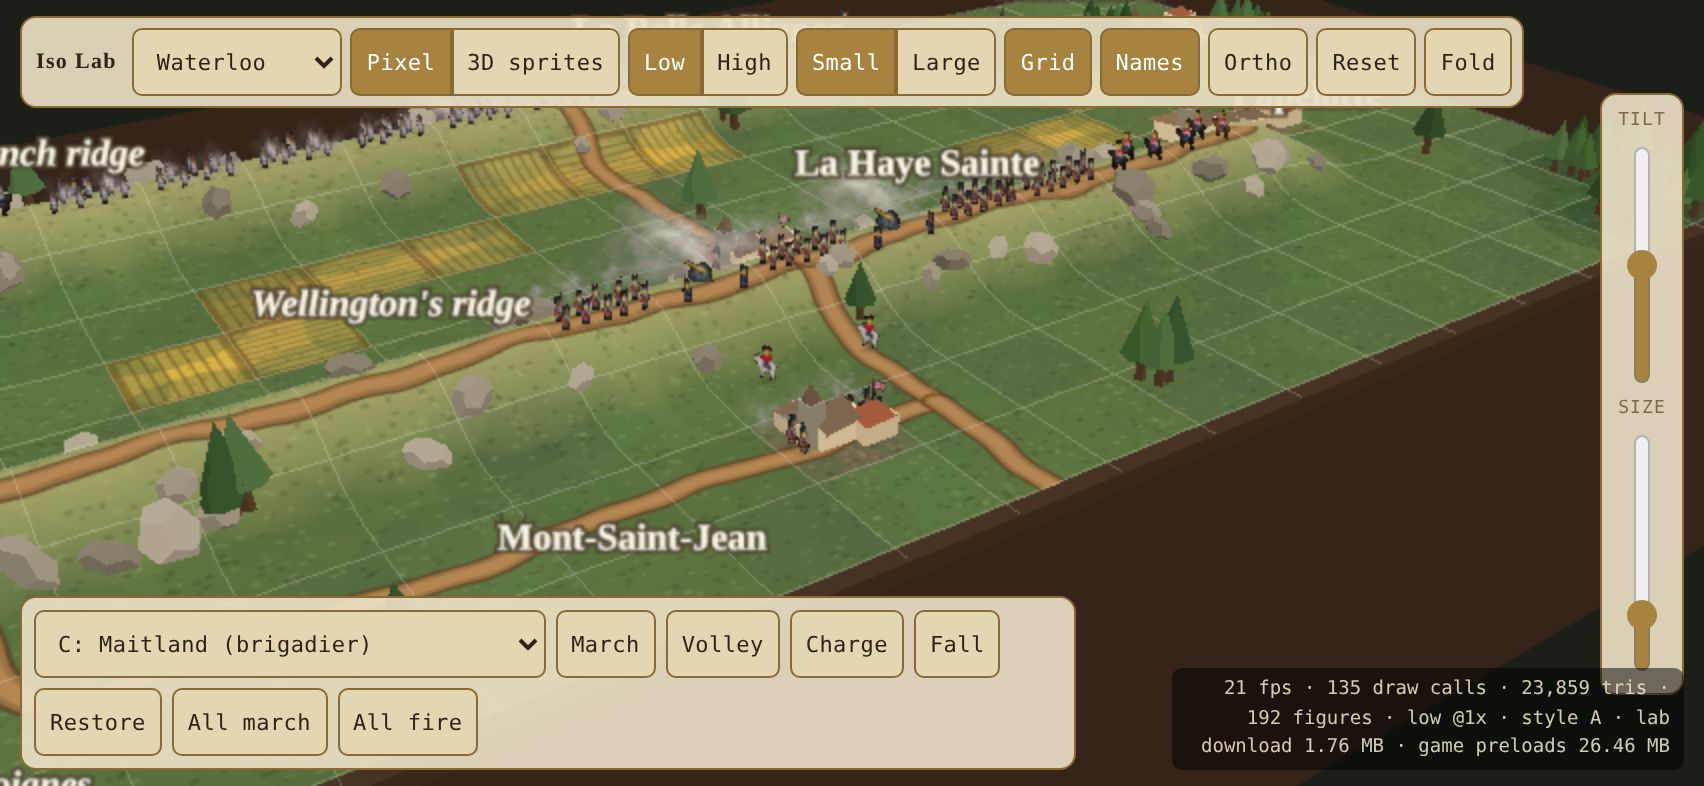
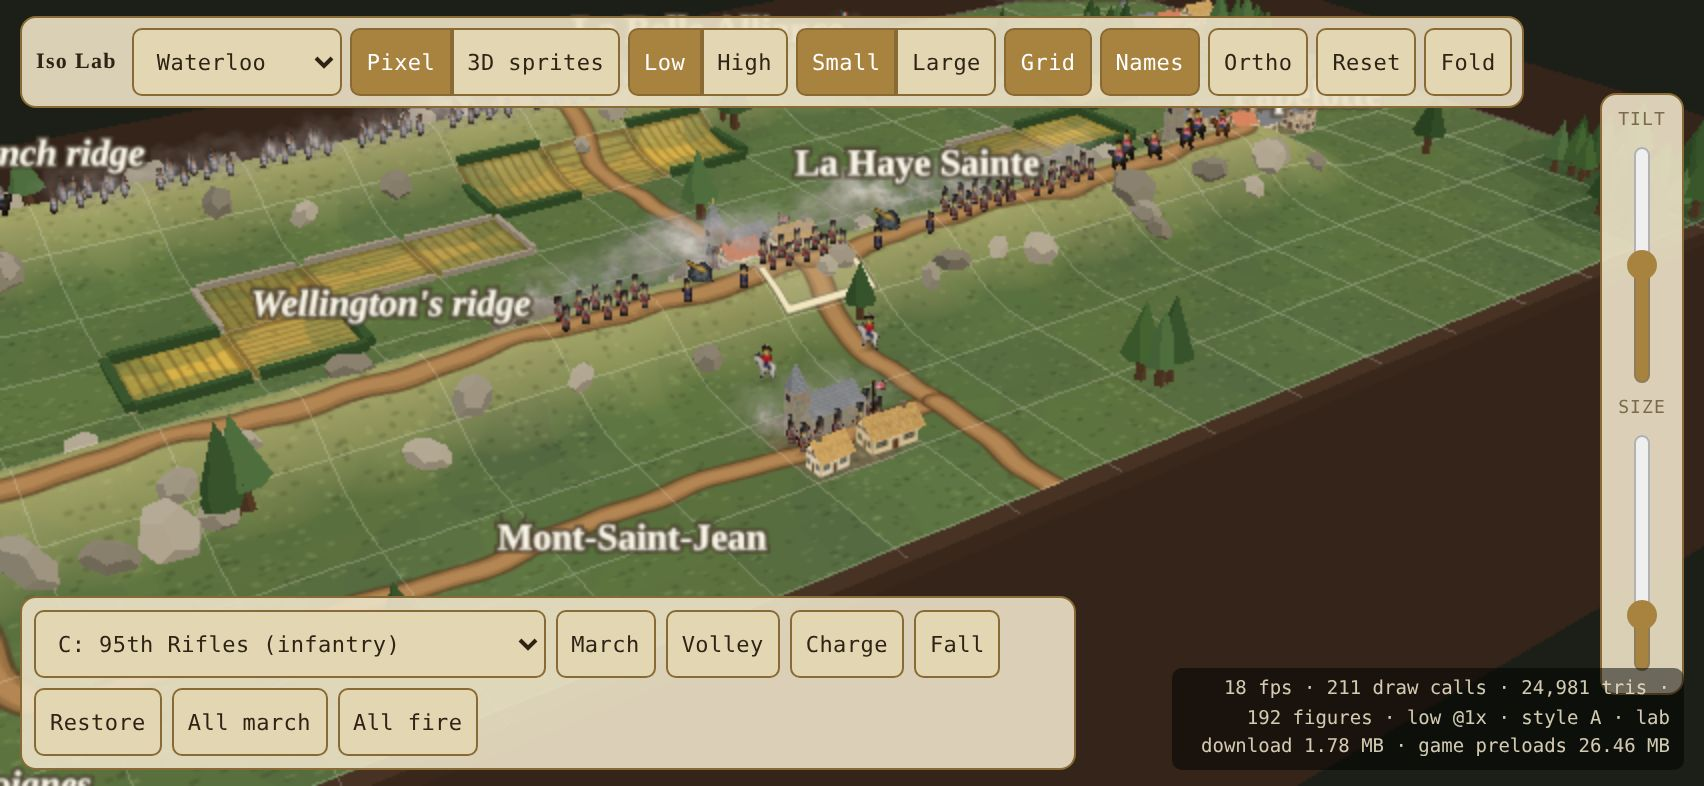
Iso Lab: proper buildings; a record of the 2D game's look
THE RECORD (Matthew: keep the current visuals in the repo in case we revert)
- Branch visuals-2d-2026-11-07 marks commit 3b2c4eb, the last state of
  main before any 3D board goes near the game. (A tag was the plan, but
  this session's git proxy refuses tag pushes; a branch of the same name
  does the same job. Never push to or merge it.)
- docs/visual-record/2026-11-07: screenshots of the real game at a phone's
  landscape size (title, side choice, the battlefield in deployment, the
  Army Picker) and a README saying how to restore the old look from the
  branch.

THE BUILDINGS (Matthew: make the houses and buildings look better)
- Gabled roofs with eaves (a two-slope roof geometry, the gable ends
  filled in the wall's material) in three finishes, all painted on
  canvases so nothing new is downloaded: clay tiles, grey slate, thatch.
- Walls painted with a door, two shuttered windows and a stone plinth,
  tinted in five plaster shades; town houses taller and half-timbered;
  barns in dark boarding with big doors and thatch or tile.
- Chimneys on the houses. Three or four buildings a square round the
  edges, turned to the square's sides, the middle left clear for troops;
  the first square of a village keeps its back half for the church.
- The church: a stone nave with a gabled slate roof, a rounded apse, a
  square tower with a belfry, a slate spire and a gilt cross.
- Instanced by wall and roof finish, so a village is still a handful of
[…]

diff --git a/lab/iso-world.js b/lab/iso-world.js
@@ -412,47 +412,19 @@ export function buildWorld(scene, quality){
     const key = x + ',' + y;
     const joined = [[x - 1, y], [x, y - 1]].some(([a, b]) => seenVillage.has(a + ',' + b));
     seenVillage.add(key);
-    const n = joined ? 3 : 2;
-    for(let k = 0; k < n; k++){
-      const ang = (k / n) * Math.PI * 2 + rnd();
-      houses.push({ x: x + 0.5 + Math.cos(ang) * 0.3, z: y + 0.5 + Math.sin(ang) * 0.28, r: rnd() < 0.5 ? 0 : Math.PI / 2, w: 0.3 + rnd() * 0.12, d: 0.22 + rnd() * 0.08, h: 0.16 + rnd() * 0.06 });
+    // three or four buildings round the square's edge, the middle left clear for the troops
+    // the first square of a village keeps its back half for the church
+    const spots = joined ? [[0.22, 0.2], [0.78, 0.22], [0.2, 0.8], [0.8, 0.78]].sort(() => rnd() - 0.5).slice(0, 3 + (rnd() < 0.5 ? 1 : 0)) : [[0.2, 0.82], [0.8, 0.8]];
+    for(const [ox, oz] of spots){
+      const roll = rnd();
+      const kind = roll < 0.42 ? 'cottage' : roll < 0.68 ? 'farmhouse' : roll < 0.88 ? 'town' : 'barn';
+      const dims = { cottage: [0.3, 0.2, 0.15], farmhouse: [0.42, 0.22, 0.16], town: [0.28, 0.24, 0.27], barn: [0.44, 0.28, 0.2] }[kind];
+      houses.push({ x: x + ox + (rnd() - 0.5) * 0.05, z: y + oz + (rnd() - 0.5) * 0.05, r: (Math.abs(ox - 0.5) > Math.abs(oz - 0.5) ? Math.PI / 2 : 0) + (rnd() - 0.5) * 0.12, kind,
+        w: dims[0] * (0.9 + rnd() * 0.2), d: dims[1] * (0.9 + rnd() * 0.2), h: dims[2] * (0.9 + rnd() * 0.2), roofH: kind === 'town' ? 0.16 : kind === 'barn' ? 0.16 : 0.13 });
     }
-    if(!joined) churches.push({ x: x + 0.5, z: y + 0.5 });
+    if(!joined) churches.push({ x: x + 0.55, z: y + 0.32 });
   }
-  if(houses.length){
-    const wallGeo = new THREE.BoxGeometry(1, 1, 1);
-    const roofGeo = new THREE.CylinderGeometry(0, 0.5, 1, 4, 1);   // a pyramid; stretched into a ridge below
-    const walls = new THREE.InstancedMesh(wallGeo, toon({ color: '#ffffff' }), houses.length);
-    const roofs = new THREE.InstancedMesh(roofGeo, toon({ color: '#ffffff' }), houses.length);
-    const m = new THREE.Matrix4(), q = new THREE.Quaternion(), v = new THREE.Vector3(), sc = new THREE.Vector3(), col = new THREE.Color();
-    houses.forEach((hs, i) => {
-      const gh = ground.heightAt(hs.x, hs.z);
-      q.setFromAxisAngle(new THREE.Vector3(0, 1, 0), hs.r);
-      m.compose(v.set(hs.x, gh + hs.h / 2, hs.z), q, sc.set(hs.w, hs.h, hs.d)); walls.setMatrixAt(i, m);
-      walls.setColorAt(i, col.set(PALETTE.wall[i % PALETTE.wall.length]).convertSRGBToLinear());
-      q.setFromAxisAngle(new THREE.Vector3(0, 1, 0), hs.r + Math.PI / 4);
-      m.compose(v.set(hs.x, gh + hs.h + 0.05, hs.z), q, sc.set(hs.w * 1.5, 0.1, hs.d * 1.5)); roofs.setMatrixAt(i, m);
-      roofs.setColorAt(i, col.set(PALETTE.roof[i % PALETTE.roof.length]).convertSRGBToLinear());
-    });
-    walls.castShadow = roofs.castShadow = quality === 'high';
-    scene.add(walls, roofs); out.props.push(walls, roofs);
-  }
-  for(const ch of churches){
-    const gh = ground.heightAt(ch.x, ch.z);
-    const grp = new THREE.Group();
-    const nave = new THREE.Mesh(new THREE.BoxGeometry(0.44, 0.2, 0.26), toon({ color: PALETTE.wall[2] }));
-    nave.position.y = 0.1;
-    const roof = new THREE.Mesh(new THREE.CylinderGeometry(0, 0.17, 0.1, 4, 1), toon({ color: PALETTE.roof[1] }));
-    roof.rotation.y = Math.PI / 4; roof.scale.set(2.0, 1.2, 1.3); roof.position.y = 0.26;
-    const tower = new THREE.Mesh(new THREE.BoxGeometry(0.15, 0.4, 0.15), toon({ color: PALETTE.stone }));
-    tower.position.set(-0.22, 0.2, 0);
-    const spire = new THREE.Mesh(new THREE.ConeGeometry(0.085, 0.16, 4), toon({ color: '#5a4a3a' }));
-    spire.position.set(-0.22, 0.48, 0); spire.rotation.y = Math.PI / 4;
-    grp.add(nave, roof, tower, spire);
-    grp.traverse(o => { if(o.isMesh) o.castShadow = quality === 'high'; });
-    grp.position.set(ch.x, gh, ch.z);
-    scene.add(grp); out.props.push(grp);
-  }
+  buildVillages(scene, out, ground, houses, churches, quality, toon, rnd);
 
   // bridges: a deck across the channel between the two squares, with low parapets
   if(state.water && state.water.bridges){
@@ -512,4 +484,160 @@ function makeLabel(text, kind){
   s.scale.set(w / 1100, 40 / 1100, 1);   // screen-relative size, whatever the zoom
   s.renderOrder = 10;
   return s;
+}
+
+/* ---------- the villages ---------- */
+/* Painted once: a wall with a door, two shuttered windows and a plinth (tinted per house), a tiled
+   roof, a slate roof, thatch, and a barn's boarding. Each on a canvas, so nothing is downloaded. */
+function canvasTex(w, h, paint){
+  const c = document.createElement('canvas'); c.width = w; c.height = h;
+  paint(c.getContext('2d'), w, h);
+  const t = new THREE.CanvasTexture(c); t.encoding = THREE.sRGBEncoding; t.anisotropy = 4;
+  return t;
+}
+const TEX = {};
+function villageTextures(){
+  if(TEX.wall) return TEX;
+  TEX.wall = canvasTex(128, 64, (g, w, h) => {
+    g.fillStyle = '#f2ece0'; g.fillRect(0, 0, w, h);
+    for(let i = 0; i < 300; i++){ g.fillStyle = `rgba(120,100,80,${Math.random() * 0.08})`; g.fillRect(Math.random() * w, Math.random() * h, 3, 2); }
+    g.fillStyle = '#9a9286'; g.fillRect(0, h - 7, w, 7);                          // the plinth
+    g.fillStyle = '#4a3424'; g.fillRect(56, 26, 16, 31);                           // the door
+    g.fillStyle = '#6a4a32'; g.fillRect(58, 28, 12, 27);
+    for(const wx of [18, 92]){
+      g.fillStyle = '#2a2a30'; g.fillRect(wx, 20, 18, 18);                         // the glass
+      g.fillStyle = '#e8e2d2'; g.fillRect(wx + 8, 20, 2, 18); g.fillRect(wx, 28, 18, 2);
+      g.fillStyle = '#3f5a3a'; g.fillRect(wx - 6, 19, 5, 20); g.fillRect(wx + 19, 19, 5, 20);   // the shutters
+    }
+    g.strokeStyle = 'rgba(70,50,30,0.5)'; g.lineWidth = 2; g.strokeRect(1, 1, w - 2, h - 2);
+  });
+  TEX.town = canvasTex(128, 128, (g, w, h) => {
+    g.fillStyle = '#f2ece0'; g.fillRect(0, 0, w, h);
+    g.strokeStyle = 'rgba(90,64,40,0.85)'; g.lineWidth = 4;                       // half-timbering
+    for(const x of [4, 42, 86, 124]){ g.beginPath(); g.moveTo(x, 0); g.lineTo(x, h); g.stroke(); }
+    for(const y of [4, 62, 124]){ g.beginPath(); g.moveTo(0, y); g.lineTo(w, y); g.stroke(); }
+    g.beginPath(); g.moveTo(4, 62); g.lineTo(42, 4); g.moveTo(124, 62); g.lineTo(86, 4); g.stroke();
+    g.fillStyle = '#2a2a30'; for(const [wx, wy] of [[52, 18], [52, 76], [16, 76], [96, 76]]) g.fillRect(wx, wy, 22, 26);
+    g.fillStyle = '#4a3424'; g.fillRect(52, 92, 22, 32);
+  });
+  TEX.barn = canvasTex(128, 64, (g, w, h) => {
+    g.fillStyle = '#7a5a3a'; g.fillRect(0, 0, w, h);
+    for(let x = 0; x < w; x += 8){ g.fillStyle = x % 16 ? '#6e5032' : '#82603e'; g.fillRect(x, 0, 7, h); }
+    g.fillStyle = '#3e2a1a'; g.fillRect(40, 18, 48, 46);
+    g.strokeStyle = '#a8865a'; g.lineWidth = 3; g.beginPath(); g.moveTo(40, 18); g.lineTo(88, 64); g.moveTo(88, 18); g.lineTo(40, 64); g.stroke();
+  });
+  TEX.tiles = canvasTex(64, 64, (g, w, h) => {
+    g.fillStyle = '#c87a5a'; g.fillRect(0, 0, w, h);
+    for(let y = 0; y < h; y += 8){ g.fillStyle = 'rgba(60,20,10,0.4)'; g.fillRect(0, y + 6, w, 2); for(let x = (y / 8) % 2 ? 4 : 0; x < w; x += 8){ g.fillStyle = `rgba(255,220,190,${0.06 + Math.random() * 0.1})`; g.fillRect(x, y, 7, 6); } }
+  });
+  TEX.slate = canvasTex(64, 64, (g, w, h) => {
+    g.fillStyle = '#7a7e86'; g.fillRect(0, 0, w, h);
+    for(let y = 0; y < h; y += 6){ g.fillStyle = 'rgba(20,24,30,0.45)'; g.fillRect(0, y + 5, w, 1); for(let x = (y / 6) % 2 ? 5 : 0; x < w; x += 10){ g.fillStyle = 'rgba(20,24,30,0.35)'; g.fillRect(x, y, 1, 5); } }
+  });
+  TEX.thatch = canvasTex(64, 64, (g, w, h) => {
+    g.fillStyle = '#b8955a'; g.fillRect(0, 0, w, h);
+    for(let i = 0; i < 500; i++){ g.strokeStyle = Math.random() < 0.5 ? 'rgba(90,64,30,0.35)' : 'rgba(240,210,150,0.3)'; g.lineWidth = 1; const x = Math.random() * w, y = Math.random() * h; g.beginPath(); g.moveTo(x, y); g.lineTo(x + (Math.random() - 0.5) * 2, y + 5 + Math.random() * 4); g.stroke(); }
+  });
+  TEX.stone = canvasTex(64, 64, (g, w, h) => {
+    g.fillStyle = '#9a9486'; g.fillRect(0, 0, w, h);
+    for(let y = 0; y < h; y += 8) for(let x = (y / 8) % 2 ? 6 : 0; x < w; x += 12){ g.fillStyle = `rgba(${90 + Math.random() * 60},${86 + Math.random() * 50},${76 + Math.random() * 40},0.6)`; g.fillRect(x + 1, y + 1, 10, 6); }
+  });
+  for(const k of ['tiles', 'slate', 'thatch', 'stone']){ TEX[k].wrapS = TEX[k].wrapT = THREE.RepeatWrapping; }
+  return TEX;
+}
+/* A gabled roof one unit wide (x, along the ridge), one deep (z) and one high (y), on y = 0: two
+   sloping faces. The gable ends are a separate geometry (the wall's material fills them). */
+function roofGeometry(){
+  const v = [
+    -0.5, 0, 0.5,   0.5, 0, 0.5,   0.5, 1, 0,   -0.5, 1, 0,     // front slope
+    0.5, 0, -0.5,  -0.5, 0, -0.5, -0.5, 1, 0,    0.5, 1, 0,     // back slope
+  ];
+  const uv = [0, 0, 2, 0, 2, 1.4, 0, 1.4, 0, 0, 2, 0, 2, 1.4, 0, 1.4];
+  const g = new THREE.BufferGeometry();
+  g.setAttribute('position', new THREE.Float32BufferAttribute(v, 3));
+  g.setAttribute('uv', new THREE.Float32BufferAttribute(uv, 2));
+  g.setIndex([0, 1, 2, 0, 2, 3, 4, 5, 6, 4, 6, 7]);
+  g.computeVertexNormals();
+  return g;
+}
+function gableGeometry(){
+  const v = [0.5, 0, 0.5, 0.5, 0, -0.5, 0.5, 1, 0, -0.5, 0, -0.5, -0.5, 0, 0.5, -0.5, 1, 0];
+  const g = new THREE.BufferGeometry();
+  g.setAttribute('position', new THREE.Float32BufferAttribute(v, 3));
+  g.setAttribute('uv', new THREE.Float32BufferAttribute([0, 0, 1, 0, 0.5, 0.6, 0, 0, 1, 0, 0.5, 0.6], 2));
+  g.setIndex([0, 1, 2, 3, 4, 5]);
+  g.computeVertexNormals();
+  return g;
+}
+function buildVillages(scene, out, ground, houses, churches, quality, toon, rnd){
+  const T = villageTextures();
+  const shadow = quality === 'high';
+  const m = new THREE.Matrix4(), q = new THREE.Quaternion(), v = new THREE.Vector3(), sc = new THREE.Vector3(), col = new THREE.Color();
+  const up = new THREE.Vector3(0, 1, 0);
+  const box = new THREE.BoxGeometry(1, 1, 1), roof = roofGeometry(), gable = gableGeometry();
+  const WALLS = ['#f4eee2', '#ece2cc', '#e8dcc0', '#f0e6d8', '#e2d6bc'];
+  // which roof each house gets: barns thatch or tile; town houses slate or tile; cottages any
+  const roofOf = h => h.kind === 'barn' ? (rnd() < 0.5 ? 'thatch' : 'tiles') : h.kind === 'town' ? (rnd() < 0.5 ? 'slate' : 'tiles') : (['tiles', 'tiles', 'slate', 'thatch'][Math.floor(rnd() * 4)]);
+  houses.forEach(h => { h.roof = roofOf(h); h.wallTex = h.kind === 'barn' ? 'barn' : h.kind === 'town' ? 'town' : 'wall'; h.eave = h.roof === 'thatch' ? 0.05 : 0.03; });
+  const groups = {};
+  for(const h of houses){ (groups['wall|' + h.wallTex] = groups['wall|' + h.wallTex] || []).push(h); (groups['roof|' + h.roof] = groups['roof|' + h.roof] || []).push(h); }
+  const add = (mesh) => { mesh.castShadow = shadow; mesh.receiveShadow = shadow; scene.add(mesh); out.props.push(mesh); };
+  for(const [key, list] of Object.entries(groups)){
+    const [part, kind] = key.split('|');
+    if(part === 'wall'){
+      const walls = new THREE.InstancedMesh(box, toon({ color: '#ffffff', map: T[kind] }), list.length);
+      const gables = new THREE.InstancedMesh(gable, toon({ color: '#ffffff', map: T[kind] }), list.length);
+      list.forEach((h, i) => {
+        const gy = ground.heightAt(h.x, h.z) - 0.01;
+        q.setFromAxisAngle(up, h.r);
+        m.compose(v.set(h.x, gy + h.h / 2, h.z), q, sc.set(h.w, h.h, h.d)); walls.setMatrixAt(i, m);
+        m.compose(v.set(h.x, gy + h.h, h.z), q, sc.set(h.w, h.roofH, h.d)); gables.setMatrixAt(i, m);
+        const c = col.set(kind === 'barn' ? '#ffffff' : WALLS[Math.floor(rnd() * WALLS.length)]).convertSRGBToLinear();
+        walls.setColorAt(i, c); gables.setColorAt(i, c);
+      });
+      add(walls); add(gables);
+    } else {
+      const roofs = new THREE.InstancedMesh(roof, toon({ color: '#ffffff', map: T[kind], side: THREE.DoubleSide }), list.length);
+      list.forEach((h, i) => {
+        const gy = ground.heightAt(h.x, h.z) - 0.01;
+        q.setFromAxisAngle(up, h.r);
+        m.compose(v.set(h.x, gy + h.h - 0.004, h.z), q, sc.set(h.w + h.eave * 1.4, h.roofH + 0.01, h.d + h.eave * 2)); roofs.setMatrixAt(i, m);
+        roofs.setColorAt(i, col.setHSL(0, 0, 0.82 + rnd() * 0.18));
+      });
+      add(roofs);
+    }
+  }
+  // chimneys on the houses (not the barns)
+  const chim = houses.filter(h => h.kind !== 'barn');
+  if(chim.length){
+    const cm = new THREE.InstancedMesh(box, toon({ color: '#ffffff', map: T.stone }), chim.length);
+    chim.forEach((h, i) => {
+      const gy = ground.heightAt(h.x, h.z), side = rnd() < 0.5 ? -1 : 1;
+      const lx = side * h.w * 0.32;
+      v.set(lx, 0, 0).applyAxisAngle(up, h.r);
+      q.setFromAxisAngle(up, h.r);
+      m.compose(v.set(h.x + v.x, gy + h.h + h.roofH * 0.75, h.z + v.z), q, sc.set(0.04, 0.12, 0.04)); cm.setMatrixAt(i, m);
+      cm.setColorAt(i, col.set('#c8beb0').convertSRGBToLinear());
+    });
+    add(cm);
+  }
+  // the churches: a nave with a gabled slate roof, a stone tower with a spire, a rounded apse
+  for(const ch of churches){
+    const gy = ground.heightAt(ch.x, ch.z) - 0.01;
+    const grp = new THREE.Group();
+    const stoneMat = toon({ color: '#ffffff', map: T.stone }), slateMat = toon({ color: '#ffffff', map: T.slate, side: THREE.DoubleSide });
+    const nave = new THREE.Mesh(box, stoneMat); nave.scale.set(0.46, 0.22, 0.24); nave.position.y = 0.11;
+    const nroof = new THREE.Mesh(roof, slateMat); nroof.scale.set(0.5, 0.15, 0.3); nroof.position.y = 0.218;
+    const ngab = new THREE.Mesh(gable, stoneMat); ngab.scale.set(0.46, 0.15, 0.24); ngab.position.y = 0.22;
+    const apse = new THREE.Mesh(new THREE.CylinderGeometry(0.11, 0.11, 0.18, 10, 1, false, 0, Math.PI), stoneMat); apse.position.set(0.23, 0.09, 0);
+    const apseRoof = new THREE.Mesh(new THREE.ConeGeometry(0.12, 0.09, 10, 1, false, 0, Math.PI), slateMat); apseRoof.position.set(0.23, 0.22, 0);
+    const tower = new THREE.Mesh(box, stoneMat); tower.scale.set(0.15, 0.44, 0.15); tower.position.set(-0.29, 0.22, 0);
+    const belfry = new THREE.Mesh(box, toon({ color: '#2a2a30' })); belfry.scale.set(0.155, 0.05, 0.06); belfry.position.set(-0.29, 0.38, 0);
+    const spire = new THREE.Mesh(new THREE.ConeGeometry(0.11, 0.24, 4), slateMat); spire.rotation.y = Math.PI / 4; spire.position.set(-0.29, 0.56, 0);
+    const cross = new THREE.Mesh(box, toon({ color: '#c9a84a' })); cross.scale.set(0.01, 0.06, 0.01); cross.position.set(-0.29, 0.7, 0);
+    grp.add(nave, nroof, ngab, apse, apseRoof, tower, belfry, spire, cross);
+    grp.traverse(o => { if(o.isMesh){ o.castShadow = shadow; o.receiveShadow = shadow; } });
+    grp.position.set(ch.x, gy, ch.z);
+    scene.add(grp); out.props.push(grp);
+  }
 }

diff --git a/docs/visual-record/2026-11-07/README.md b/docs/visual-record/2026-11-07/README.md
@@ -1,0 +1,17 @@
+# The game's look on 7 November 2026 (before any 3D board)
+
+A record of the 2D game as it stood before the Iso Lab prototype (lab/iso.html) was considered
+for the live game, so it can be compared with or restored later.
+
+- **Branch `visuals-2d-2026-11-07`** (commit 3b2c4eb) marks the exact state; it is a record, never
+  to be pushed to or merged. To restore the old look, check out the game's files from it
+  (`git checkout origin/visuals-2d-2026-11-07 -- index.html js assets data`) or branch from it.
+- The screenshots are the real game at a phone's landscape size (852 x 393 at 2x), taken headless:
+  1. the title screen
+  2. the side choice (Quick Battle)
+  3. the battlefield during deployment (painted v2 terrain tiles, pixel figures)
+  4. the Army Picker over the board
+
+What the look is made of at this tag: the v2 painted terrain tiles (assets/terrain/v2), the pixel
+unit figures (assets/units-pixel, drawn by js/render-figures.js), the board drawn in 2D canvas by
+js/render-board.js, the painted bridges and smoke, and the Commander's Desk frame.
